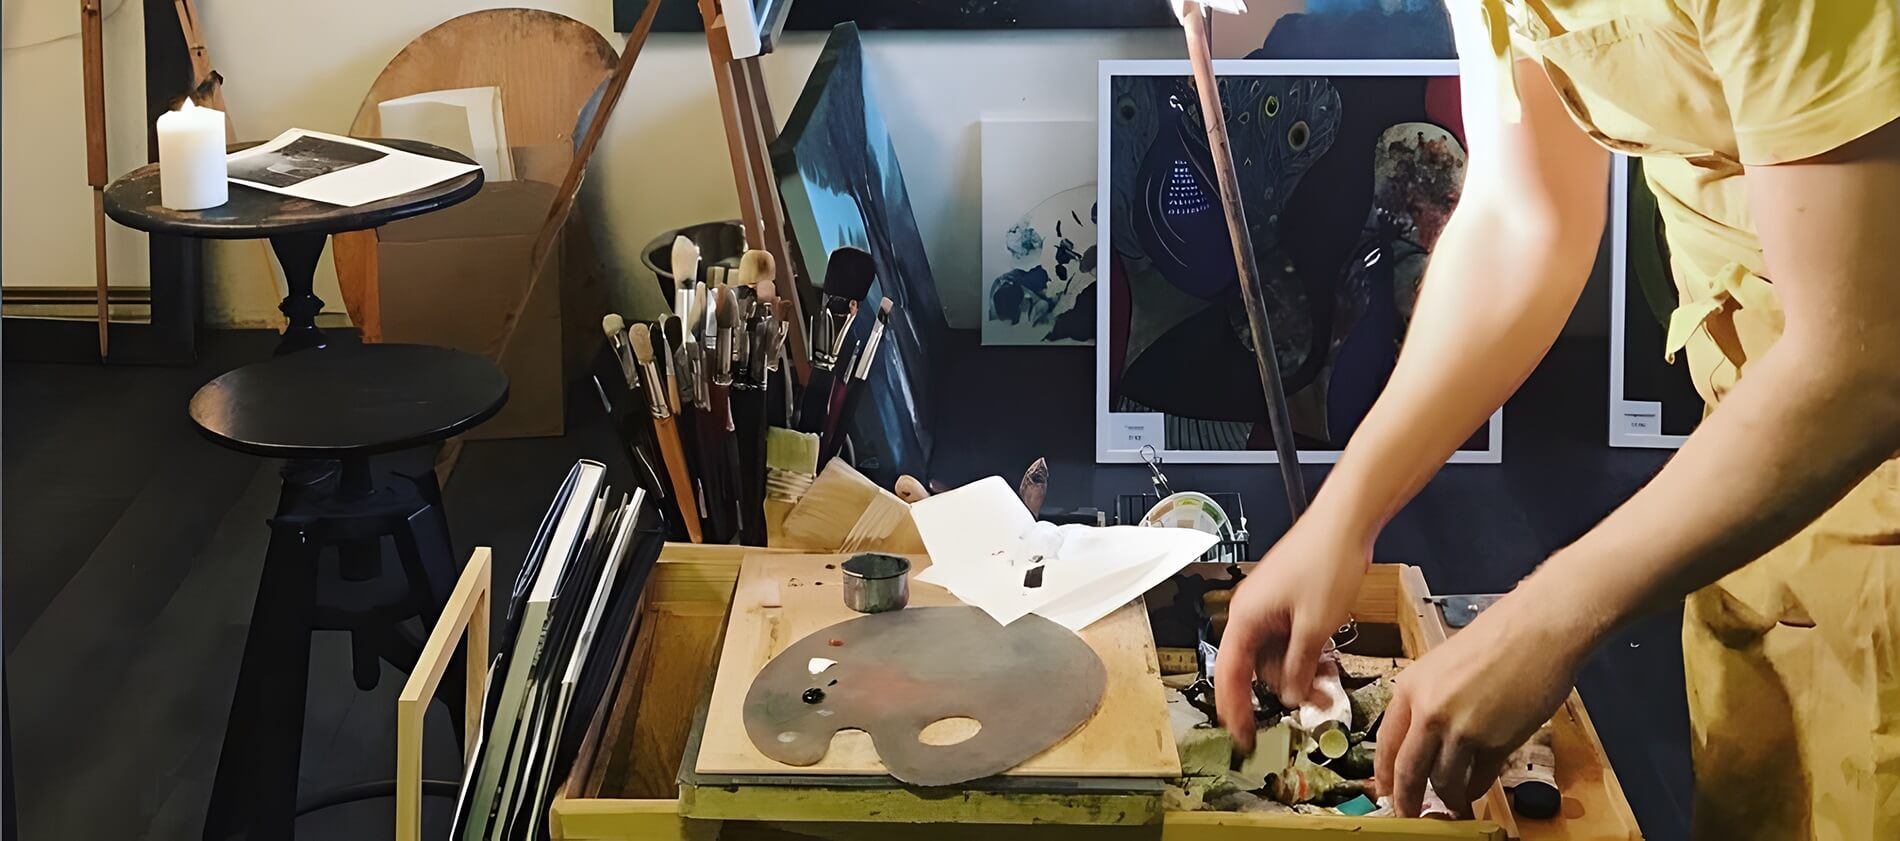
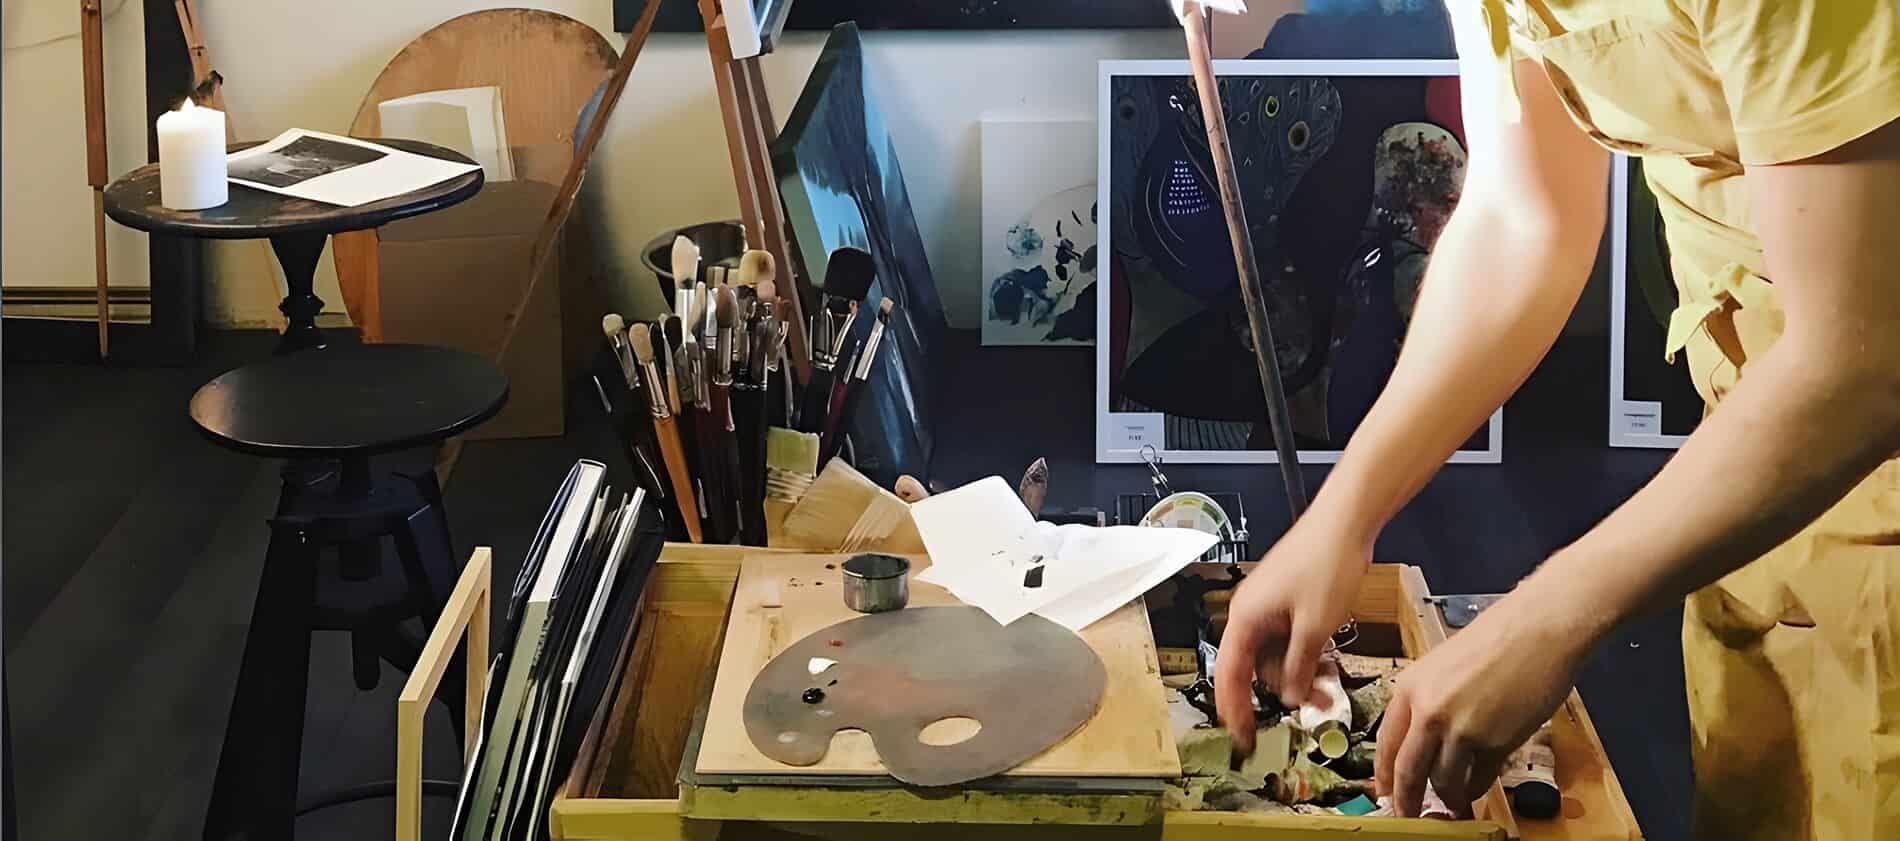
Added blur loading to hero, portrait, events and painting images

diff --git a/ekerhornArt/home/templates/home/index.html b/ekerhornArt/home/templates/home/index.html
@@ -6,8 +6,15 @@
 <section id="home">
   <div class="hero">
     <div class="header-background"></div>
-    <img class="hero-background" src="../../static/home/images/hero-p.jpg"></img>
-    <img class="hero-background blur-load" src="../../static/home/images/hero.jpg"></img>
+    <img
+      class="hero-background"
+      src="{% static 'home/images/hero-s.jpg' %}"
+      srcset="{% static 'home/images/hero-s.jpg' %} 500w, {% static 'home/images/hero-m.jpg' %} 1000w, {% static 'home/images/hero-l.jpg' %} 1600w"
+      sizes="(max-width: 500px) 400px,
+              (max-width: 1000px) 800px,
+              1600px"
+      alt="hero background"
+    />
     <div class="row">
       <div class="column">
         <a href="https://www.facebook.com/EkerhornArt/" title="My Facebook"
@@ -69,9 +76,29 @@
       vill dela genom mina ord.
     </p>
   </div>
-    <div class="background">
-      <div class="row">
-      <img loading="lazy" src="{% static 'home/images/portrait-large.png' %}" class="profile-image"></img>
+  <div class="background">
+    <div class="row">
+      <picture
+    class="blur-load"
+    style="
+        background-image: url({% static 'home/images/portrait-small-p.png' %});
+        "
+      >
+        <source
+          type="image/webp"
+          srcset="{% static 'home/images/portrait-small.webp' %} 500w, {% static 'home/images/portrait-medium.webp' %} 1000w, {% static 'home/images/portrait-large.webp' %} 1600w"
+        />
+        <img
+          src="{% static 'home/images/portrait-small.png' %}"
+          srcset="{% static 'home/images/portrait-small.png' %} 500w, {% static 'home/images/portrait-medium.png' %} 1000w, {% static 'home/images/portrait-large.png' %} 1600w"
+          sizes="(max-width: 500px) 400px,
+                (max-width: 1000px) 800px,
+                1600px"
+          loading="lazy"
+          class="profile-image"
+          alt="portrait photo"
+        />
+      </picture>
 
       <div class="text-box">
         <h6>Hej på er</h6>
@@ -79,9 +106,9 @@
 
         <p>
           Läkare och konstnär, med stor passion för konstens alla former. Jag
-          skapar modern konst och dikter som utforskar teman om identitet, känsla
-          och skönhet. Nedan kan du se några av mina verk, läsa mina dikter och
-          lära dig mer om mig och min konstnärliga vision.
+          skapar modern konst och dikter som utforskar teman om identitet,
+          känsla och skönhet. Nedan kan du se några av mina verk, läsa mina
+          dikter och lära dig mer om mig och min konstnärliga vision.
           <br /><br />Jag hoppas att du finner något som berör dig, och att du
           kommer tillbaka ofta för att se mina senaste verk. Följ mig på en resa
           genom konst, poesi och färg.
@@ -100,8 +127,15 @@
 
   <div class="accordion">
     {% for event in events %}
-    <div class="item-container {% if forloop.first %}expanded{% endif %}">
-      <img src="{{ event.get_resized_image_urls.img_2_url }}" alt="{{ event.name }} event" />
+    <div
+      class="item-container blur-load {% if forloop.first %}expanded{% endif %}"
+      style="background-image: url({{ event.get_resized_image_urls.img_0_url }});"
+    >
+      <img
+        src="{{ event.get_resized_image_urls.img_2_url }}"
+        alt="{{ event.name }} event"
+        load="lazy"
+      />
 
       <div class="event-text">
         <h3>{{ event.name }}</h3>
@@ -140,27 +174,28 @@
   <p>Ett urval av mina senaste verk</p>
   <div class="paintings">
     {% for painting in paintings %}
-    <dialog class="modal">
+    <dialog
+      class="modal blur-load"
+    >
       <img
         src="{{ painting.get_resized_image_urls.img_1_url }}"
-        alt="Målning"
+        alt="Målning" loading="lazy"
       />
       <h5>{{ painting.name }}</h5>
       <p>{{ painting.poem|linebreaksbr }}</p>
     </dialog>
     {% if painting.sold %}
-    <div class="open-modal sold">
-    {% else %}
-    <div class="open-modal">
-    {% endif %}
+    <div class="open-modal blur-load sold">
+      {% else %} <div class="open-modal blur-load" style="background-image:
+      url({{ painting.get_resized_image_urls.img_0_url }});"> {% endif %}
       <img
         src="{{ painting.get_resized_image_urls.img_1_url }}"
-        alt="Målningen {{ painting.name }}"
+        alt="Målningen {{ painting.name }}" loading="lazy"
       />
       <p>{{ painting.name }}</p>
     </div>
     {% empty %}
-      <p>No paintings</p>
+    <p>No paintings</p>
     {% endfor %}
   </div>
 
@@ -170,8 +205,8 @@
 <section class="studio">
   <div class="text-box">
     <h4>
-      Varje målning åtföljs av en dikt, som avslöjar inspirationen och
-      meningen bakom konstverket
+      Varje målning åtföljs av en dikt, som avslöjar inspirationen och meningen
+      bakom konstverket
     </h4>
   </div>
 </section>

diff --git a/ekerhornArt/home/static/home/script.js b/ekerhornArt/home/static/home/script.js
@@ -1,7 +1,3 @@
-function loaded(img) {
-  img.classList.add("loaded");
-}
-
 document.addEventListener("DOMContentLoaded", function () {
   // Change styling of navbar based on scroll
   const primaryLight = "#eaeff0";
@@ -15,16 +11,21 @@ document.addEventListener("DOMContentLoaded", function () {
   const neutralBlack = "#00040d";
   let prevScrollPos = 0;
 
-  const blurDivs = document.querySelectorAll(".blur-load");
-  blurDivs.forEach((img) => {
+  const blurContainers = document.querySelectorAll(".blur-load");
+  blurContainers.forEach((container) => {
+    const img = container.querySelector("img");
+
+    function loaded() {
+      container.classList.add("loaded");
+    }
+
     if (img.complete) {
-      loaded(img);
+      loaded();
     } else {
-      img.addEventListener("load", function () {
-        loaded(img);
-      });
+      img.addEventListener("load", loaded);
     }
   });
+
   // NAVBAR
   window.addEventListener("scroll", function () {
     const headerElement = document.getElementById("header");

diff --git a/ekerhornArt/home/static/home/layout.css b/ekerhornArt/home/static/home/layout.css
@@ -46,12 +46,24 @@ body {
 }
 
 .blur-load {
-  opacity: 0;
-  transition: 0.5s;
+  opacity: 1;
+  background-size: cover;
+  background-position: center;
 }
 
-.blur-load.loaded {
+.blur-load > img {
+  opacity: 0;
+  object-position: center;
+  object-fit: cover;
+  transition: opacity 0.2s ease-in-out;
+}
+
+.blur-load.loaded > img {
   opacity: 1;
+}
+
+#about .loaded {
+  background-image: none !important;
 }
 
 .sidebar {

diff --git a/ekerhornArt/home/static/home/styles.css b/ekerhornArt/home/static/home/styles.css
@@ -63,6 +63,7 @@
   min-height: 650px;
   width: 100vw;
   position: relative;
+  background-color: var(--a-main);
 }
 .hero-background {
   object-fit: cover;
